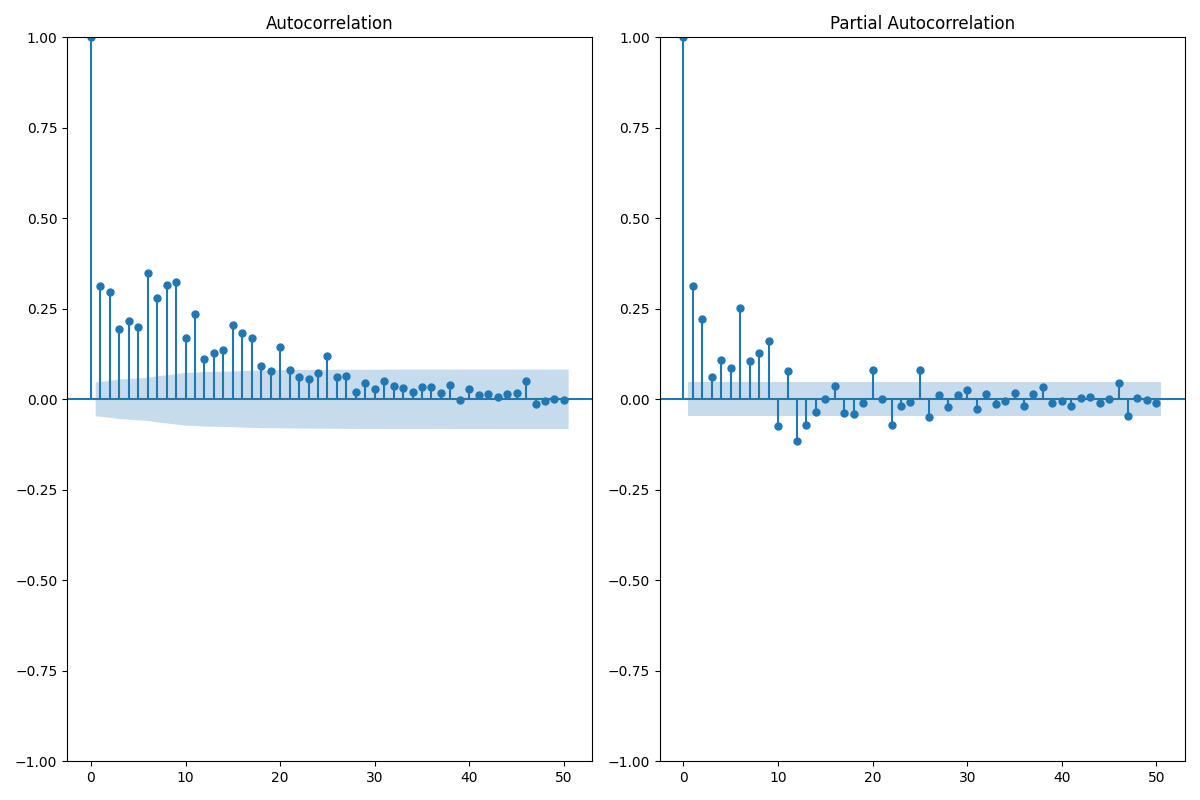
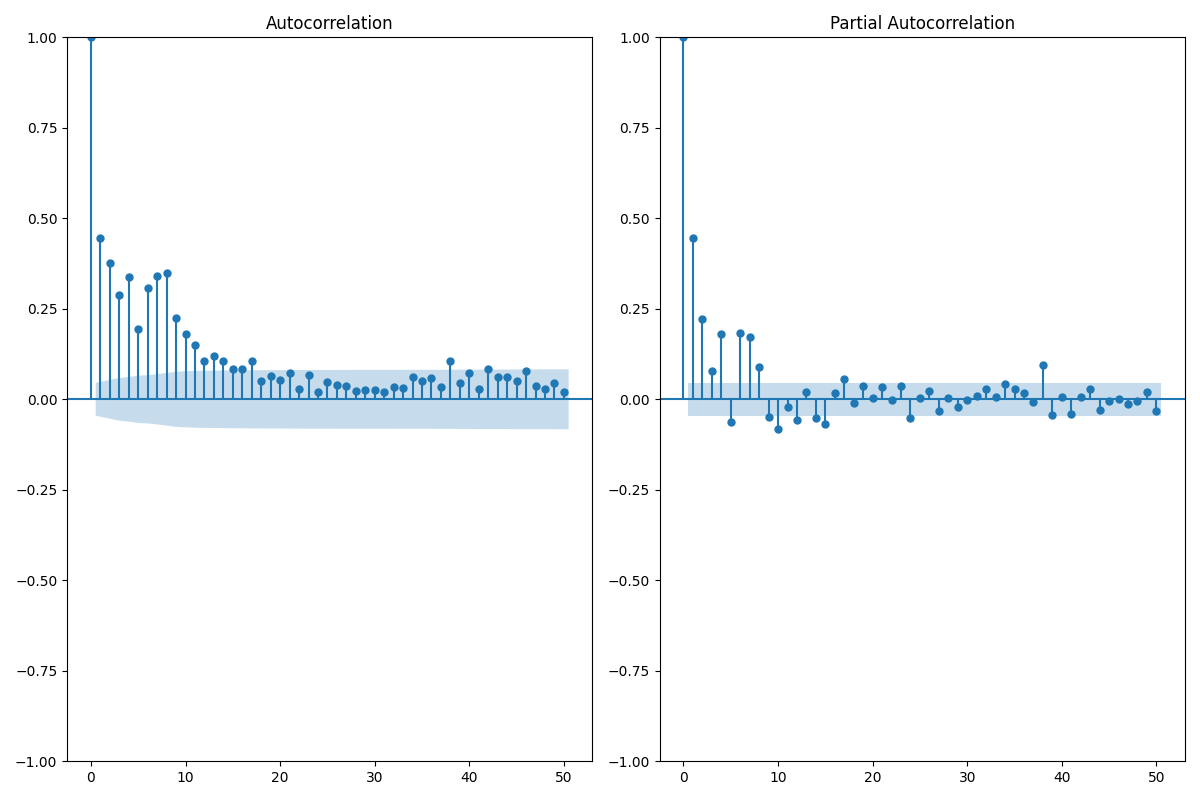
Backtesting added

Changed region(s): [[0.5858, 0.4062, 0.9867, 0.5625], [0.1542, 0.4062, 0.4933, 0.5312], [0.0617, 0.3125, 0.1542, 0.4062]]

diff --git a/services/risk_models/backtesting.py b/services/risk_models/backtesting.py
@@ -1,0 +1,83 @@
+import pandas as pd
+import numpy as np
+from scipy.stats import chi2
+class VarBacktester:
+    @staticmethod
+    def violation_rate(returns,var_series):
+        returns = pd.Series(returns).dropna()
+        var_series = pd.Series(var_series).dropna()
+        violations=returns.values < -var_series.values
+        cnt=violations.sum()
+        rate=cnt/len(returns)
+        return {
+            "violations": int(cnt),
+            "total": len(returns),
+            "violation_rate": rate
+        }
+    @staticmethod
+    def kupiec_test(returns,var_series,confidence=0.95):
+        returns = pd.Series(returns).dropna()
+        var_series = pd.Series(var_series).dropna()
+        violations=int((returns.values < -var_series.values).sum())
+        p_exp=1-confidence
+        p_obs=violations/len(returns)
+        expected=len(returns)*p_exp
+        if expected==0 or expected==len(returns):
+            return {
+                "expected_violations":
+                    round(expected, 2),
+                "actual_violations":
+                    violations,
+                "kupiec_stat":
+                    None,
+                "p_value":
+                    None,
+                "passed":
+                    False
+            }
+        n=len(returns)
+        lr_stat = -2 * (
+
+            (n - violations)
+            * np.log(
+                (1 - p_exp)
+                / (1 - p_obs)
+            )
+
+            +
+
+            violations
+            * np.log(
+                p_exp
+                / p_obs
+            )
+
+        )
+        p_value = 1 - chi2.cdf(lr_stat, df=1)
+        return {
+            "expected_violations":
+                round(expected, 2),
+
+            "actual_violations":
+                violations,
+
+            "kupiec_stat":
+                round(float(lr_stat), 6),
+
+            "p_value":
+                round(float(p_value), 6),
+
+            "passed":
+                bool(p_value > 0.05)
+        }
+    #Add bessel later on
+    def summary(
+        returns: pd.Series, var_series: pd.Series, confidence: float = 0.95) -> dict:
+       
+        violation_stats = VarBacktester.violation_rate(returns, var_series)
+        kupiec_stats    = VarBacktester.kupiec_test(returns, var_series, confidence)
+
+        return {
+            **violation_stats,
+            **kupiec_stats
+        }

diff --git a/pipelines/garch_simulate.py b/pipelines/garch_simulate.py
@@ -1,4 +1,6 @@
 from pathlib import Path
+import pandas as pd
+import numpy as np
 import json
 import logging
 import argparse
@@ -15,6 +17,8 @@ from services.risk_models.var import ValueAtRisk
 from services.risk_models.cvar import ConditionalVAR
 from services.risk_models.probability_metrics import ProbabilityMetrics
 from services.risk_models.drawdown import Drawdown 
+from services.risk_models.backtesting import VarBacktester
+
 logger = logging.getLogger(__name__)
 logging.basicConfig(level=logging.INFO)
 parser = argparse.ArgumentParser()
@@ -38,7 +42,7 @@ def main():
         end_date=config["date_range"]["end"])
     df=ReturnFeatures.log_returns(df)
     returns=df["log_returns"]
-    mu=0.0#5#ReturnEstimator.annualized_return(returns)
+    mu=0#ReturnEstimator.annualized_return(returns)
     #print(mu)
     logger.info(f"Annualized return for {ticker}: {mu}")
     garch_model=GARCHModel(returns)
@@ -133,6 +137,23 @@ def main():
     for k, v in risk_report.items():
         MLFlowTracker.log_metrics(k, v)
     print(risk_report)
+    window = 252
+
+    var_series = returns.rolling(window).apply(
+        lambda x: ValueAtRisk.historical(pd.Series(x), confidence=0.95)
+    ).dropna()
+    returns_aligned = returns.loc[var_series.index]
+    backtest_report = (
+    VarBacktester.summary(
+            returns=returns_aligned,
+            var_series=var_series,
+            confidence=0.95
+        )
+    )
+
+    print(backtest_report)
+    for k, v in backtest_report.items():
+        MLFlowTracker.log_metrics(k, v)
     metrics=SimulationMetrics.summarize(paths)
     logger.info(f"Simulation metrics: {metrics}")
     paths.to_parquet(f"outputs/forecasts/{ticker}_garch_mc.parquet")
@@ -140,6 +161,8 @@ def main():
         json.dump(metrics, f, indent=4)
     with open(f"outputs/metrics/{ticker}_risk_metrics.json", "w") as f:
         json.dump(risk_report, f, indent=4)
+    with open(f"outputs/metrics/{ticker}_backtest_metrics.json", "w") as f:
+        json.dump(backtest_report, f, indent=4)
     MonteCarloPlotter.plot(
         paths=paths,
         ticker=ticker,

diff --git a/pipelines/garch_pipeline.py b/pipelines/garch_pipeline.py
@@ -1,7 +1,7 @@
 import pandas as pd
 from dotenv import load_dotenv
 import numpy as np
-from services.validation import rolling_garch
+#from services.validation import rolling_garch
 load_dotenv()
 import argparse
 

diff --git a/README.md b/README.md
@@ -32,25 +32,50 @@ The long-term objective is to build a realistic financial simulation environment
 
 ---
 
-## Phase 2 — Market Simulation (In Progress) 🚧
+## Phase 2 — Market Simulation & Risk Engine ✅
 
-Implemented:
-
+### 2.1 — Simulation Engine
 * Geometric Brownian Motion (GBM) simulation
-* Monte Carlo price path generation
-* GARCH-conditioned volatility forecasts
-* Future price distribution analysis
-* Interactive simulation visualizations
+* GARCH-conditioned Monte Carlo (dynamic volatility per timestep)
+* Antithetic variates for variance reduction
+* Interactive simulation visualizations (Plotly)
+* Parquet-based forecast storage
 
-Upcoming:
+### 2.2 — Risk Metrics
+* Value at Risk (VaR) — historical, parametric, Monte Carlo
+* Conditional Value at Risk (CVaR / Expected Shortfall)
+* Dollar VaR
+* Max drawdown and recovery period analysis
+* Probability of loss, probability of target gain/loss
 
-* Value at Risk (VaR)
-* Conditional Value at Risk (CVaR)
-* Drawdown analysis
-* Probability of loss metrics
-* Portfolio-level simulations
+### 2.3 — Backtesting
+* Rolling historical VaR backtesting (252-day window)
+* Kupiec proportion of failures test
+* Violation rate reporting
 
 ---
+
+## Validation Results
+
+| Ticker | Asset Type | VaR 95% | CVaR 95% | Max Drawdown | Kupiec P-value | Passed |
+|--------|------------|---------|----------|--------------|----------------|--------|
+| SPY | US Index ETF | 0.35% | 0.44% | -0.20% | 0.9897 | ✅ |
+| DIS | Media/Entertainment | 0.86% | 1.07% | -0.53% | 0.7006 | ✅ |
+| TSLA | High Vol Growth | 1.47% | 1.85% | -0.83% | 0.6907 | ✅ |
+| GME | Meme Stock | 1.98% | 2.49% | -1.11% | 0.6907 | ✅ |
+| LUNA-USD | Collapsed Crypto | 84.0% | 88.5% | -58.46% | 0.7049 | ✅ |
+
+Model correctly identifies risk spectrum from near-riskless (SPY) to catastrophic (LUNA),
+with Kupiec backtesting passing across all asset classes.
+
+---
+
+## Phase 3 — Multi-Asset Portfolio (In Progress) 🚧
+
+* Portfolio VaR and CVaR
+* Correlation matrix estimation
+* Covariance-based risk decomposition
+* Portfolio-level Monte Carlo simulation
 
 # Example Output
 